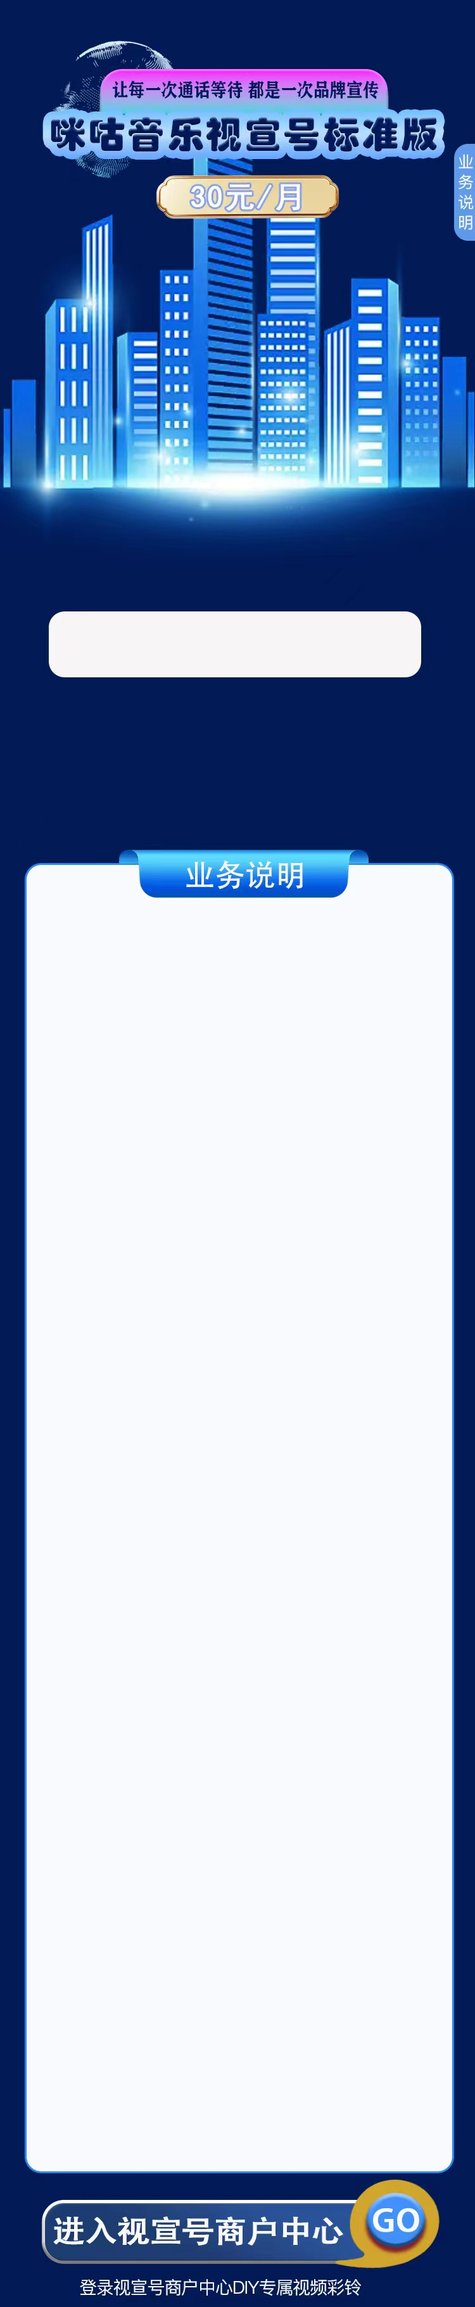
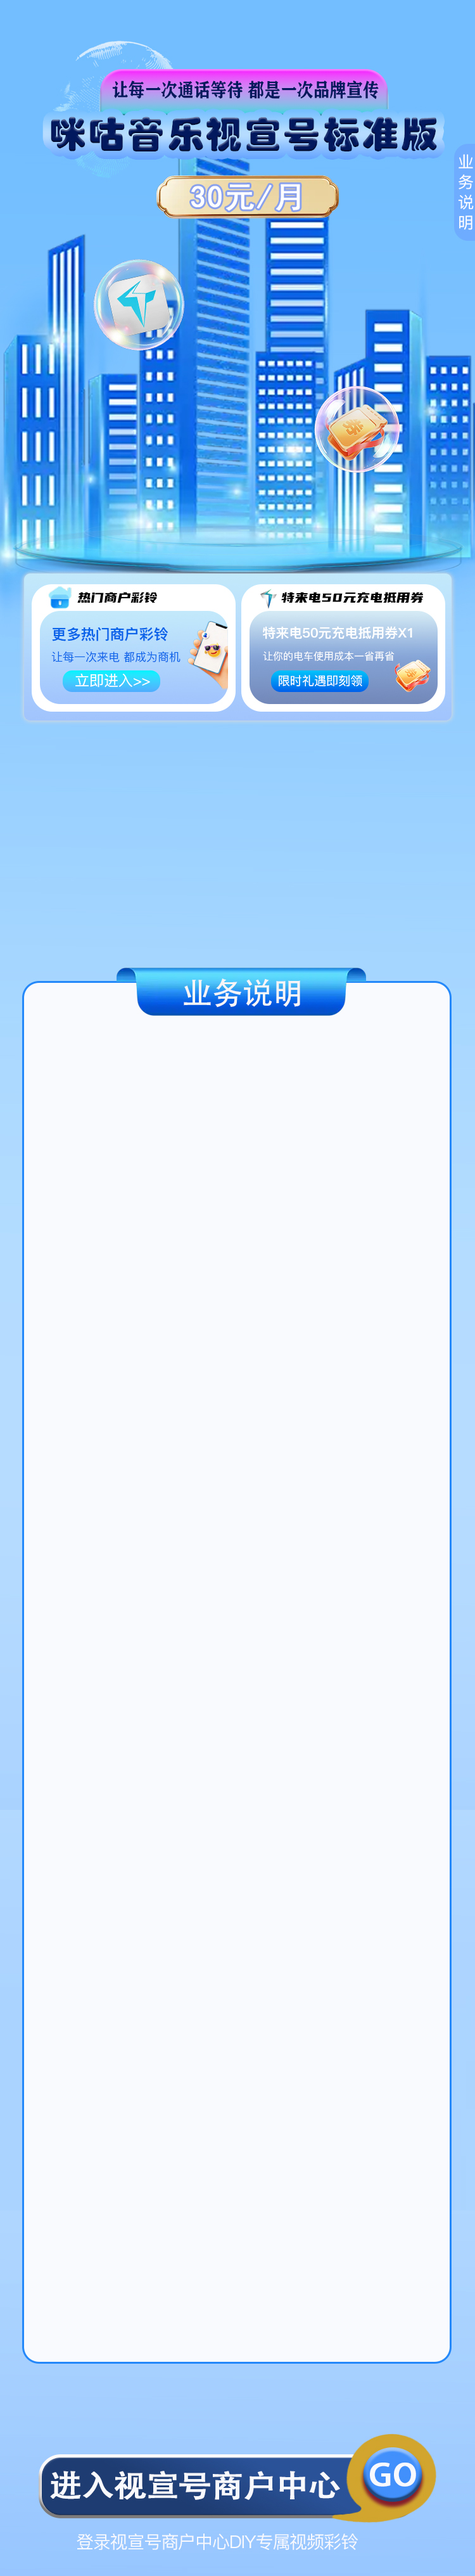
updated rules and bgs

diff --git a/src/view/mgMusicKMgd.vue b/src/view/mgMusicKMgd.vue
@@ -25,7 +25,8 @@
       </div>
     </div>
 
-    <div class="custom-tab-container">
+    <!-- 首页tab展示 - Old -->
+    <!-- <div class="custom-tab-container">
       <img
         class="van-titile-img"
         :src="
@@ -42,7 +43,7 @@
         :title-active-color="'transparent'"
         :title-inactive-color="'transparent'"
       >
-        <!-- Tab 1 热门圈子彩铃 -->
+        Tab 1 热门圈子彩铃
         <van-tab>
           <template #title></template>
           <div class="tab-content">
@@ -66,7 +67,7 @@
           </div>
         </van-tab>
 
-        <!-- Tab 2 视宣号商户中心 -->
+        Tab 2 视宣号商户中心
         <van-tab>
           <template #title></template>
           <div class="tab-content">
@@ -77,8 +78,8 @@
           </div>
         </van-tab>
 
-        <!-- Tab 3 视频彩铃权益 -->
-        <!-- <van-tab>
+        Tab 3 视频彩铃权益 - Archived
+        <van-tab>
           <template #title></template>
           <div class="tab-content">
             <img src="../assets/images/nav3-content.png" />
@@ -86,9 +87,12 @@
               <img src="../assets/images/enter-btn1.png" alt="" class="btn" />
             </router-link>
           </div>
-        </van-tab> -->
+        </van-tab>
       </van-tabs>
-    </div>
+    </div> -->
+
+    <!-- 热门商户彩铃入口 -->
+    <router-link class="qzvideoLink" to="/qzvideo"></router-link>
 
     <a class="bottom-link" href="https://sxh.migu.cn/qysch/" ></a>
 
@@ -295,7 +299,8 @@
     <div class="rules-container">
       1．“咪咕音乐视宣号标准版”目前仅支持<b>中国移动</b>用户（不含港澳台）订购，资费<b>30元/月</b>，通过<b>话费</b>收取，<b>订购立即生效，退订立即失效</b>，退订的次月起不再收费。
       <br>2．该业务可享专区页面使用模板或上传短视频制作店铺专属视频彩铃、彩印(网内2000条/月)、挂机短信(50条/月)等权益。<span>（注：专区页面可通过微信服务号“咪咕视宣号-订购服务-商户中心”、微信公众号“铃音多多-酷美视宣-热门圈子彩铃”进入。）</span>
-      <br>3．订购该业务时，为具备业务生效所需的功能支持，将为您<b>同步开通</b>0元的视频彩铃功能，如已开通则不会重复开通。同步开通的视频彩铃功能，开通立即生效，退订立即失效（部分省份退订次月生效，具体以所属省份实际规定为准）；如不退订，资费将保持0元/月。
+      <!-- <br>3．订购该业务时，为具备业务生效所需的功能支持，将为您<b>同步开通</b>0元的视频彩铃功能，如已开通则不会重复开通。同步开通的视频彩铃功能，开通立即生效，退订立即失效（部分省份退订次月生效，具体以所属省份实际规定为准）；如不退订，资费将保持0元/月。 -->
+      <br>3．截至2026年12月31日24:00，通过此页面订购该业务的用户，在业务保持订购期间，可每月领取1张50元充电电费抵用券。进入“咪咕音乐App-我的-全部（页面中部四个方块图标）-权益中心”，输入订购业务手机号码和验证码即可进行领取，领取有效期为当月有效，领取时若已退订咪咕视宣号标准版，则无法领取。领取成功后，2小时内到账对应手机号码的特来电账号，使用有效期为30天，从到账当天开始计算。可通过“特来电App-我的或特来电小程序-我的”查看和使用。
       <br>4．资费有效期3年（36个自然月），如双方在有效期届满前无异议，有效期自动续展，每次续展3年；有效期内变更/退订/销户/携转，无需承担相应的违约责任。
       <br>5．订购该业务后，进入<span>微信服务号“咪咕视宣号-订购服务-商户中心”，</span>用订购业务手机号码登录后使用业务权益。使用“挂机短信”和“彩印”权益时，需根据提示开通0元的“企业彩印-主被叫彩印体验版”，如已开通则不会重复开通；开通立即生效，退订立即失效；如不退订，资费将保持不变。<span>（注：①部分省份退订次月生效，</span>具体以所属省份实际规定为准。<span>②浙江地区用户暂不支持挂机短信、彩印服务）。</span>
       <br>6．使用该业务权益制作的店铺专属视频彩铃时长需在<b>7-48秒</b>以内，彩铃名称及内容不能有涉及宗教、违法、违规、色情、反动、敏感、不文明用语、危害公共安全、不清晰、有噪音、无声音或某段无声音，视频画面倒置等情况，上传的彩铃名称及内容会于<b>30分钟</b>内完成审核，审核通过后方可设置生效。审核结果可通过微信服务号“咪咕视宣号-订购服务-商户中心-宣发视频”查看。<span>（注：目前暂不支持制作设
@@ -373,7 +378,8 @@
             <p>
               1．“咪咕音乐视宣号标准版”目前仅支持<b>中国移动</b>用户（不含港澳台）订购，资费<b>30元/月</b>，通过<b>话费</b>收取，<b>订购立即生效，退订立即失效</b>，退订的次月起不再收费。
               <br>2．该业务可享专区页面使用模板或上传短视频制作店铺专属视频彩铃、彩印(网内2000条/月)、挂机短信(50条/月)等权益。<span>（注：专区页面可通过微信服务号“咪咕视宣号-订购服务-商户中心”、微信公众号“铃音多多-酷美视宣-热门圈子彩铃”进入。）</span>
-              <br>3．订购该业务时，为具备业务生效所需的功能支持，将为您<b>同步开通</b>0元的视频彩铃功能，如已开通则不会重复开通。同步开通的视频彩铃功能，开通立即生效，退订立即失效（部分省份退订次月生效，具体以所属省份实际规定为准）；如不退订，资费将保持0元/月。
+              <!-- <br>3．订购该业务时，为具备业务生效所需的功能支持，将为您<b>同步开通</b>0元的视频彩铃功能，如已开通则不会重复开通。同步开通的视频彩铃功能，开通立即生效，退订立即失效（部分省份退订次月生效，具体以所属省份实际规定为准）；如不退订，资费将保持0元/月。 -->
+              <br>3．截至2026年12月31日24:00，通过此页面订购该业务的用户，在业务保持订购期间，可每月领取1张50元充电电费抵用券。进入“咪咕音乐App-我的-全部（页面中部四个方块图标）-权益中心”，输入订购业务手机号码和验证码即可进行领取，领取有效期为当月有效，领取时若已退订咪咕视宣号标准版，则无法领取。领取成功后，2小时内到账对应手机号码的特来电账号，使用有效期为30天，从到账当天开始计算。可通过“特来电App-我的或特来电小程序-我的”查看和使用。
               <br>4．资费有效期3年（36个自然月），如双方在有效期届满前无异议，有效期自动续展，每次续展3年；有效期内变更/退订/销户/携转，无需承担相应的违约责任。
               <br>5．订购该业务后，进入<span>微信服务号“咪咕视宣号-订购服务-商户中心”，</span>用订购业务手机号码登录后使用业务权益。使用“挂机短信”和“彩印”权益时，需根据提示开通0元的“企业彩印-主被叫彩印体验版”，如已开通则不会重复开通；开通立即生效，退订立即失效；如不退订，资费将保持不变。<span>（注：①部分省份退订次月生效，</span>具体以所属省份实际规定为准。<span>②浙江地区用户暂不支持挂机短信、彩印服务）。</span>
               <br>6．使用该业务权益制作的店铺专属视频彩铃时长需在<b>7-48秒</b>以内，彩铃名称及内容不能有涉及宗教、违法、违规、色情、反动、敏感、不文明用语、危害公共安全、不清晰、有噪音、无声音或某段无声音，视频画面倒置等情况，上传的彩铃名称及内容会于<b>30分钟</b>内完成审核，审核通过后方可设置生效。审核结果可通过微信服务号“咪咕视宣号-订购服务-商户中心-宣发视频”查看。<span>（注：目前暂不支持制作设
@@ -880,14 +886,17 @@ export default {
           console.log("queryPreCheck: " + response.result.resMsg);
           return "1";
         } else {
-          // console.error("[queryPreCheck] Invalid response structure", response);
-          // let msg = response.message || (response.result && response.result.resMsg) || 'queryPreCheck操作失败';
-          // this.mToast(msg);
           console.error("[queryPreCheck] Invalid response structure", response);
-          this.mToast(response.message || response.result.resMsg || 'queryPreCheck操作失败');
+          var errMessage = "";
+          if ((response.result && response.result.resMsg)) {
+            errMessage = response.result.resMsg
+          } else {
+            errMessage = response.message
+          }
+          this.mToast(errMessage);
           // GdpTracker
           this.bussinessProcessingData.processType_var = "办理失败";
-          this.bussinessProcessingData.errorMessage_var = response.result.resMsg;
+          this.bussinessProcessingData.errorMessage_var = errMessage;
           window.gdp(
             "track",
             "professional_merchants_bussinessProcessing",

diff --git a/src/view/Home.vue b/src/view/Home.vue
@@ -25,7 +25,8 @@
       </div>
     </div>
 
-    <div class="custom-tab-container">
+    <!-- 首页tab展示 - Old -->
+    <!-- <div class="custom-tab-container">
       <img
         class="van-titile-img"
         :src="
@@ -42,7 +43,7 @@
         :title-active-color="'transparent'"
         :title-inactive-color="'transparent'"
       >
-        <!-- Tab 1 热门圈子彩铃 -->
+        Tab 1 热门圈子彩铃
         <van-tab>
           <template #title></template>
           <div class="tab-content">
@@ -62,7 +63,7 @@
           </div>
         </van-tab>
 
-        <!-- Tab 2 视宣号商户中心 -->
+        Tab 2 视宣号商户中心
         <van-tab>
           <template #title></template>
           <div class="tab-content">
@@ -73,8 +74,8 @@
           </div>
         </van-tab>
 
-        <!-- Tab 3 视频彩铃权益 -->
-        <!-- <van-tab>
+        Tab 3 视频彩铃权益 - Archived
+        <van-tab>
           <template #title></template>
           <div class="tab-content">
             <img src="../assets/images/nav3-content.png" />
@@ -82,9 +83,12 @@
               <img src="../assets/images/enter-btn1.png" alt="" class="btn" />
             </router-link>
           </div>
-        </van-tab> -->
+        </van-tab>
       </van-tabs>
-    </div>
+    </div> -->
+
+    <!-- 热门商户彩铃入口 -->
+    <router-link class="qzvideoLink" to="/qzvideo"></router-link>
 
     <a class="bottom-link" href="https://sxh.migu.cn/qysch/" ></a>
 
@@ -192,7 +196,8 @@
     <div class="rules-container">
       1．“咪咕音乐视宣号标准版”目前仅支持<b>中国移动</b>用户（不含港澳台）订购，资费<b>30元/月</b>，通过<b>话费</b>收取，<b>订购立即生效，退订立即失效</b>，退订的次月起不再收费。
       <br>2．该业务可享专区页面使用模板或上传短视频制作店铺专属视频彩铃、彩印(网内2000条/月)、挂机短信(50条/月)等权益。<span>（注：专区页面可通过微信服务号“咪咕视宣号-订购服务-商户中心”、微信公众号“铃音多多-酷美视宣-热门圈子彩铃”进入。）</span>
-      <br>3．订购该业务时，为具备业务生效所需的功能支持，将为您<b>同步开通</b>0元的视频彩铃功能，如已开通则不会重复开通。同步开通的视频彩铃功能，开通立即生效，退订立即失效（部分省份退订次月生效，具体以所属省份实际规定为准）；如不退订，资费将保持0元/月。
+      <!-- <br>3．订购该业务时，为具备业务生效所需的功能支持，将为您<b>同步开通</b>0元的视频彩铃功能，如已开通则不会重复开通。同步开通的视频彩铃功能，开通立即生效，退订立即失效（部分省份退订次月生效，具体以所属省份实际规定为准）；如不退订，资费将保持0元/月。 -->
+      <br>3．截至2026年12月31日24:00，通过此页面订购该业务的用户，在业务保持订购期间，可每月领取1张50元充电电费抵用券。进入“咪咕音乐App-我的-全部（页面中部四个方块图标）-权益中心”，输入订购业务手机号码和验证码即可进行领取，领取有效期为当月有效，领取时若已退订咪咕视宣号标准版，则无法领取。领取成功后，2小时内到账对应手机号码的特来电账号，使用有效期为30天，从到账当天开始计算。可通过“特来电App-我的或特来电小程序-我的”查看和使用。
       <br>4．资费有效期3年（36个自然月），如双方在有效期届满前无异议，有效期自动续展，每次续展3年；有效期内变更/退订/销户/携转，无需承担相应的违约责任。
       <br>5．订购该业务后，进入<span>微信服务号“咪咕视宣号-订购服务-商户中心”，</span>用订购业务手机号码登录后使用业务权益。使用“挂机短信”和“彩印”权益时，需根据提示开通0元的“企业彩印-主被叫彩印体验版”，如已开通则不会重复开通；开通立即生效，退订立即失效；如不退订，资费将保持不变。<span>（注：①部分省份退订次月生效，</span>具体以所属省份实际规定为准。<span>②浙江地区用户暂不支持挂机短信、彩印服务）。</span>
       <br>6．使用该业务权益制作的店铺专属视频彩铃时长需在<b>7-48秒</b>以内，彩铃名称及内容不能有涉及宗教、违法、违规、色情、反动、敏感、不文明用语、危害公共安全、不清晰、有噪音、无声音或某段无声音，视频画面倒置等情况，上传的彩铃名称及内容会于<b>30分钟</b>内完成审核，审核通过后方可设置生效。审核结果可通过微信服务号“咪咕视宣号-订购服务-商户中心-宣发视频”查看。<span>（注：目前暂不支持制作设
@@ -302,7 +307,8 @@
             <p>
               1．“咪咕音乐视宣号标准版”目前仅支持<b>中国移动</b>用户（不含港澳台）订购，资费<b>30元/月</b>，通过<b>话费</b>收取，<b>订购立即生效，退订立即失效</b>，退订的次月起不再收费。
               <br>2．该业务可享专区页面使用模板或上传短视频制作店铺专属视频彩铃、彩印(网内2000条/月)、挂机短信(50条/月)等权益。<span>（注：专区页面可通过微信服务号“咪咕视宣号-订购服务-商户中心”、微信公众号“铃音多多-酷美视宣-热门圈子彩铃”进入。）</span>
-              <br>3．订购该业务时，为具备业务生效所需的功能支持，将为您<b>同步开通</b>0元的视频彩铃功能，如已开通则不会重复开通。同步开通的视频彩铃功能，开通立即生效，退订立即失效（部分省份退订次月生效，具体以所属省份实际规定为准）；如不退订，资费将保持0元/月。
+              <!-- <br>3．订购该业务时，为具备业务生效所需的功能支持，将为您<b>同步开通</b>0元的视频彩铃功能，如已开通则不会重复开通。同步开通的视频彩铃功能，开通立即生效，退订立即失效（部分省份退订次月生效，具体以所属省份实际规定为准）；如不退订，资费将保持0元/月。 -->
+              <br>3．截至2026年12月31日24:00，通过此页面订购该业务的用户，在业务保持订购期间，可每月领取1张50元充电电费抵用券。进入“咪咕音乐App-我的-全部（页面中部四个方块图标）-权益中心”，输入订购业务手机号码和验证码即可进行领取，领取有效期为当月有效，领取时若已退订咪咕视宣号标准版，则无法领取。领取成功后，2小时内到账对应手机号码的特来电账号，使用有效期为30天，从到账当天开始计算。可通过“特来电App-我的或特来电小程序-我的”查看和使用。
               <br>4．资费有效期3年（36个自然月），如双方在有效期届满前无异议，有效期自动续展，每次续展3年；有效期内变更/退订/销户/携转，无需承担相应的违约责任。
               <br>5．订购该业务后，进入<span>微信服务号“咪咕视宣号-订购服务-商户中心”，</span>用订购业务手机号码登录后使用业务权益。使用“挂机短信”和“彩印”权益时，需根据提示开通0元的“企业彩印-主被叫彩印体验版”，如已开通则不会重复开通；开通立即生效，退订立即失效；如不退订，资费将保持不变。<span>（注：①部分省份退订次月生效，</span>具体以所属省份实际规定为准。<span>②浙江地区用户暂不支持挂机短信、彩印服务）。</span>
               <br>6．使用该业务权益制作的店铺专属视频彩铃时长需在<b>7-48秒</b>以内，彩铃名称及内容不能有涉及宗教、违法、违规、色情、反动、敏感、不文明用语、危害公共安全、不清晰、有噪音、无声音或某段无声音，视频画面倒置等情况，上传的彩铃名称及内容会于<b>30分钟</b>内完成审核，审核通过后方可设置生效。审核结果可通过微信服务号“咪咕视宣号-订购服务-商户中心-宣发视频”查看。<span>（注：目前暂不支持制作设
@@ -768,7 +774,10 @@ export default {
           return "1";
         } else {
           console.error("[queryPreCheck] Invalid response structure", response);
-          this.mToast(response.message || response.result.resMsg || 'queryPreCheck操作失败');
+          this.mToast(
+            (response.result && response.result.resMsg) || 
+              (response.success + " " + response.code + " " + response.message)
+          );
           return false;
         }
       } catch (err) {

diff --git a/src/assets/css/main.css b/src/assets/css/main.css
@@ -82,7 +82,7 @@ input {
 /* van-tabs */
 .custom-tab-container {
   position: absolute;
-  top: 54vw;
+  top: 50vw;
   left: 5vw;
   width: 90vw; 
   height: 73.15vw;
@@ -207,7 +207,7 @@ video::-webkit-media-controls {
 
 .bottom-link {
   position: absolute;
-  bottom: 10vw;
+  bottom: 83vw;
   left: 13vw;
   width: 76vw;
   height: 15vw;
@@ -243,7 +243,7 @@ video::-webkit-media-controls {
   justify-content: center;
   align-items: center;
   position: absolute;
-  top: 128.3vw;
+  top: 155.3vw;
 }
 
 .row-box-left {
@@ -258,13 +258,13 @@ video::-webkit-media-controls {
   width: 78.47vw;
   height: 14vw;
   /* padding: 2.666667vw 6.666667vw; */
-  /* background-color: #fff; */
-  /* border: 1px solid darkcyan; */
-  /* border-radius: 5vw; */
+  background-color: #fff;
+  border: 1px solid darkcyan;
+  border-radius: 5vw;
   box-sizing: border-box;
   display: flex;
   justify-content: center;
-  margin-bottom: 5.8vw;
+  margin-bottom: 5vw;
 }
 
 .input_number input {
@@ -325,7 +325,7 @@ video::-webkit-media-controls {
   border-radius: 1.16vw;
   overflow-y: auto;
   position: absolute;
-  top: 185.5vw;
+  top: 210.5vw;
   font-size: 3.5vw;
 }
 
@@ -738,4 +738,12 @@ video::-webkit-media-controls {
   float: right;
   margin-top: 3px;
   margin-right: 10px;
+}
+
+.qzvideoLink {
+  position: absolute;
+  width: 21vw;
+  height: 5vw;
+  top: 140.5vw;
+  left: 13vw;
 }
